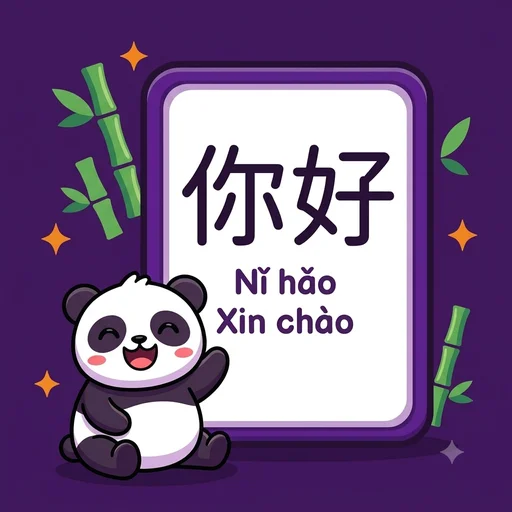
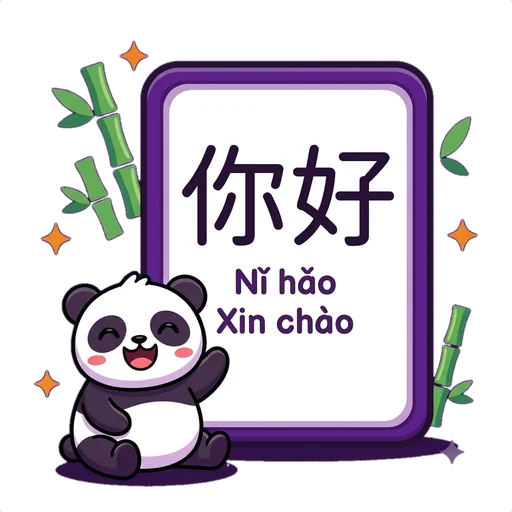
Ảnh Ôn tập: bỏ nền tím để liền mạch với nền trang
Nền tím được tách bằng cách loại vùng cùng màu nối với mép ảnh, nên thẻ và gấu trúc bên trong giữ nguyên. Bỏ bo góc và đổ bóng vì không còn cần.

Claude-Session: https://claude.ai/code/session_01Pxt5e7CqgFfneuHWgP5Smw

diff --git a/src/pages/FlashcardsPage.jsx b/src/pages/FlashcardsPage.jsx
@@ -148,7 +148,7 @@ export default function FlashcardsPage() {
           <img
             src={flashcardPanda}
             alt="Gấu trúc mời ôn tập từ vựng"
-            className="mx-auto mb-4 w-56 max-w-full rounded-3xl shadow-lg"
+            className="mx-auto mb-4 w-56 max-w-full"
           />
         )}
 
